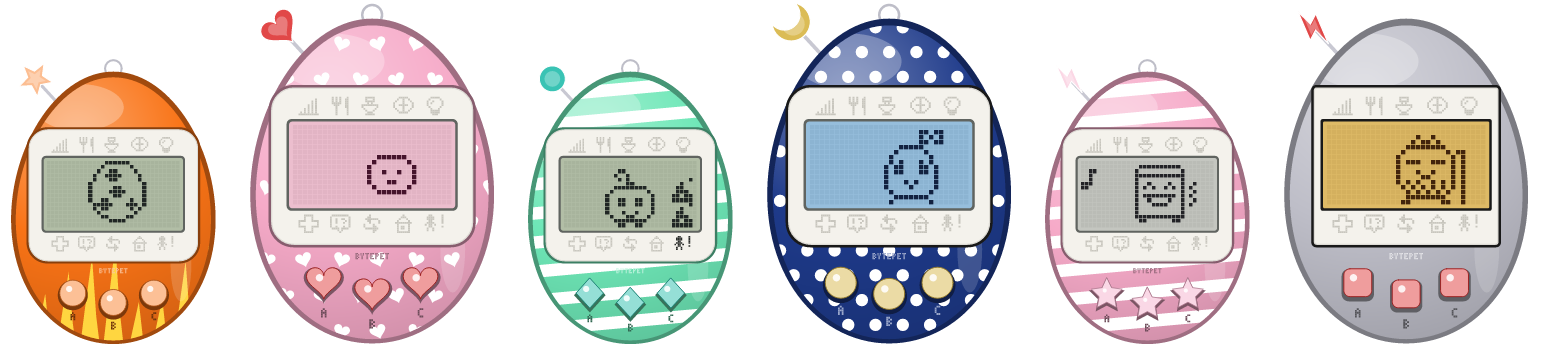
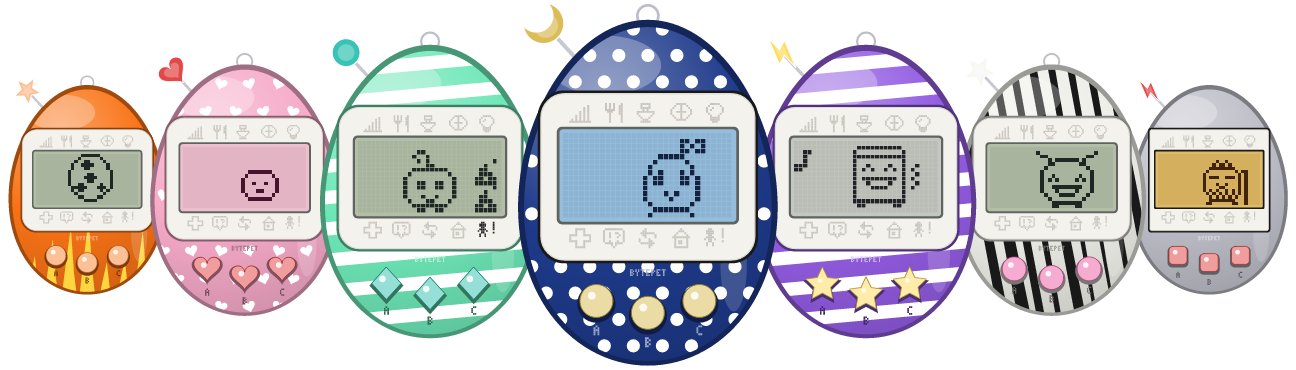
README: arrange the top image as a group shot
Seven devices, egg to senior from left to right, sized up to the biggest in
the middle and down again, each slightly overlapping the next with the
bigger one in front, instead of big and small alternating in a row. Every
shell differs in colour, pattern, buttons and antenna; the made-over one is
now a GRAPE, so it doesn't repeat SWEET's pink.

diff --git a/examples/export_art.rs b/examples/export_art.rs
@@ -78,24 +78,29 @@ fn game_shot(dir: &Path, name: &str, g: Box<dyn games::MiniGame>, frames: usize,
     r.lcd(dir, &format!("game_{name}"));
 }
 
-/// The README's top image: six devices in a row, each a different shell with a pet at a
-/// different stage of life, egg to senior, some of them up to something.
+/// The README's top image: a group shot of seven devices, each a different shell with a pet
+/// at a different stage of life, egg to senior. The middle one is biggest and in front, and
+/// the rest step down in size towards the edges, each tucked slightly behind its neighbour.
 fn hero(dir: &Path) {
     use bytepet::look::{Antenna, ButtonShape, Lcd, Pattern, PRESETS};
     let preset = |name: &str| PRESETS.iter().find(|p| p.name == name).map(|p| p.look).unwrap();
-    // a made-over DONUT, to show off the customiser
-    let mut custom = preset("DONUT");
-    custom.button_shape = ButtonShape::Star;
-    custom.antenna = Antenna::Bolt;
-    custom.lcd = Lcd::Gray;
+    // a made-over GRAPE, to show off the customiser
+    let mut custom = preset("GRAPE");
     custom.pattern = Pattern::Stripes;
+    custom.button_shape = ButtonShape::Star;
+    custom.buttons = Some(bytepet::look::PALETTE[3].1); // yellow
+    custom.antenna = Antenna::Bolt;
+    custom.antenna_color = custom.buttons;
+    custom.lcd = Lcd::Gray;
+    // left to right, a life from egg to senior; sizes rise to the middle and fall again
     let cast = [
-        (preset("FLAME"), Stage::Egg, "egg", 0.52),
-        (preset("SWEET"), Stage::Baby, "baby", 0.62),
-        (preset("MINT"), Stage::Child, "child_a", 0.52),
-        (preset("COSMIC"), Stage::Teen, "teen_g", 0.62),
-        (custom, Stage::Adult, "s_p", 0.52),
-        (preset("RETRO"), Stage::Senior, "senior", 0.62),
+        (preset("FLAME"), Stage::Egg, "egg", 0.40),
+        (preset("SWEET"), Stage::Baby, "baby", 0.48),
+        (preset("MINT"), Stage::Child, "child_a", 0.56),
+        (preset("COSMIC"), Stage::Teen, "teen_g", 0.66),
+        (custom, Stage::Adult, "s_p", 0.56),
+        (preset("ZEBRA"), Stage::Adult, "h_a", 0.48),
+        (preset("RETRO"), Stage::Senior, "senior", 0.40),
     ];
     let mut devices = Vec::new();
     for (i, (look, stage, character, scale)) in cast.into_iter().enumerate() {
@@ -112,16 +117,25 @@ fn hero(dir: &Path) {
         r.core.shade = r.core.lcd.buf.map(|v| v as f32);
         devices.push(Renderer::new().render(&r.core, scale, 1.0, r.wall));
     }
-    let gap = 10;
-    let w = devices.iter().map(|d| d.width()).sum::<u32>() + gap * (devices.len() as u32 - 1);
+    // neighbours overlap by a fifth of the smaller one, all centred on one line
+    let overlap = |a: &tiny_skia::Pixmap, b: &tiny_skia::Pixmap| (a.width().min(b.width()) as f32 * 0.2) as u32;
+    let mut xs = vec![0u32];
+    for pair in devices.windows(2) {
+        let x = xs.last().unwrap() + pair[0].width() - overlap(&pair[0], &pair[1]);
+        xs.push(x);
+    }
+    let w = xs.last().unwrap() + devices.last().unwrap().width();
     let h = devices.iter().map(|d| d.height()).max().unwrap();
     let mut out = tiny_skia::Pixmap::new(w, h).unwrap();
-    let mut x = 0;
-    for d in &devices {
-        // big and small take turns, standing on the same line
-        let y = (h - d.height()) as i32;
-        out.draw_pixmap(x, y, d.as_ref(), &tiny_skia::PixmapPaint::default(), tiny_skia::Transform::identity(), None);
-        x += (d.width() + gap) as i32;
+    // from the edges in, so each one stands in front of the smaller ones beside it
+    let mid = devices.len() / 2;
+    let mut order: Vec<usize> = (0..devices.len()).collect();
+    order.sort_by_key(|&i| std::cmp::Reverse(i.abs_diff(mid)));
+    for i in order {
+        let d = &devices[i];
+        let y = ((h - d.height()) / 2) as i32;
+        let paint = tiny_skia::PixmapPaint::default();
+        out.draw_pixmap(xs[i] as i32, y, d.as_ref(), &paint, tiny_skia::Transform::identity(), None);
     }
     out.save_png(dir.join("hero.png")).unwrap();
 }
